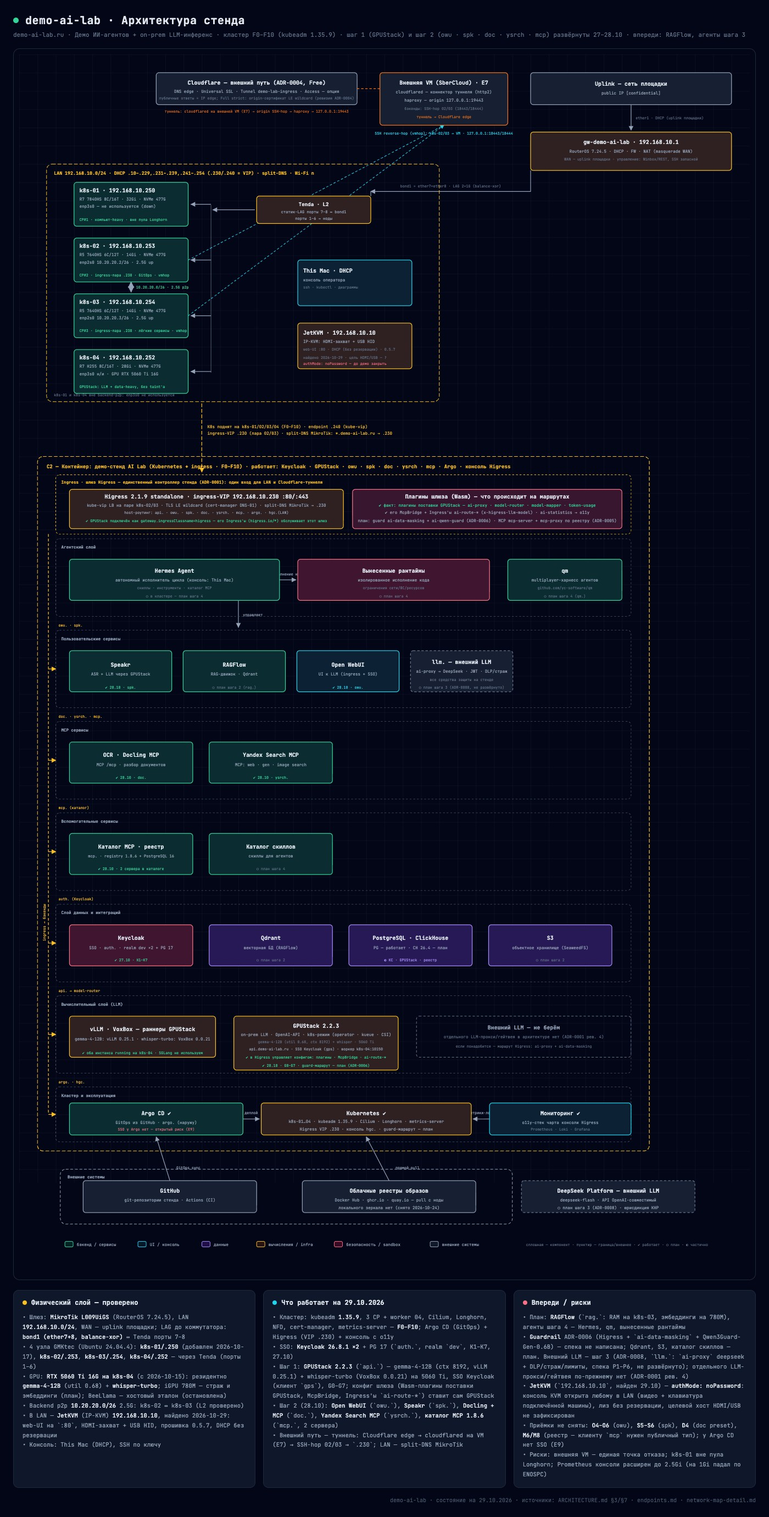
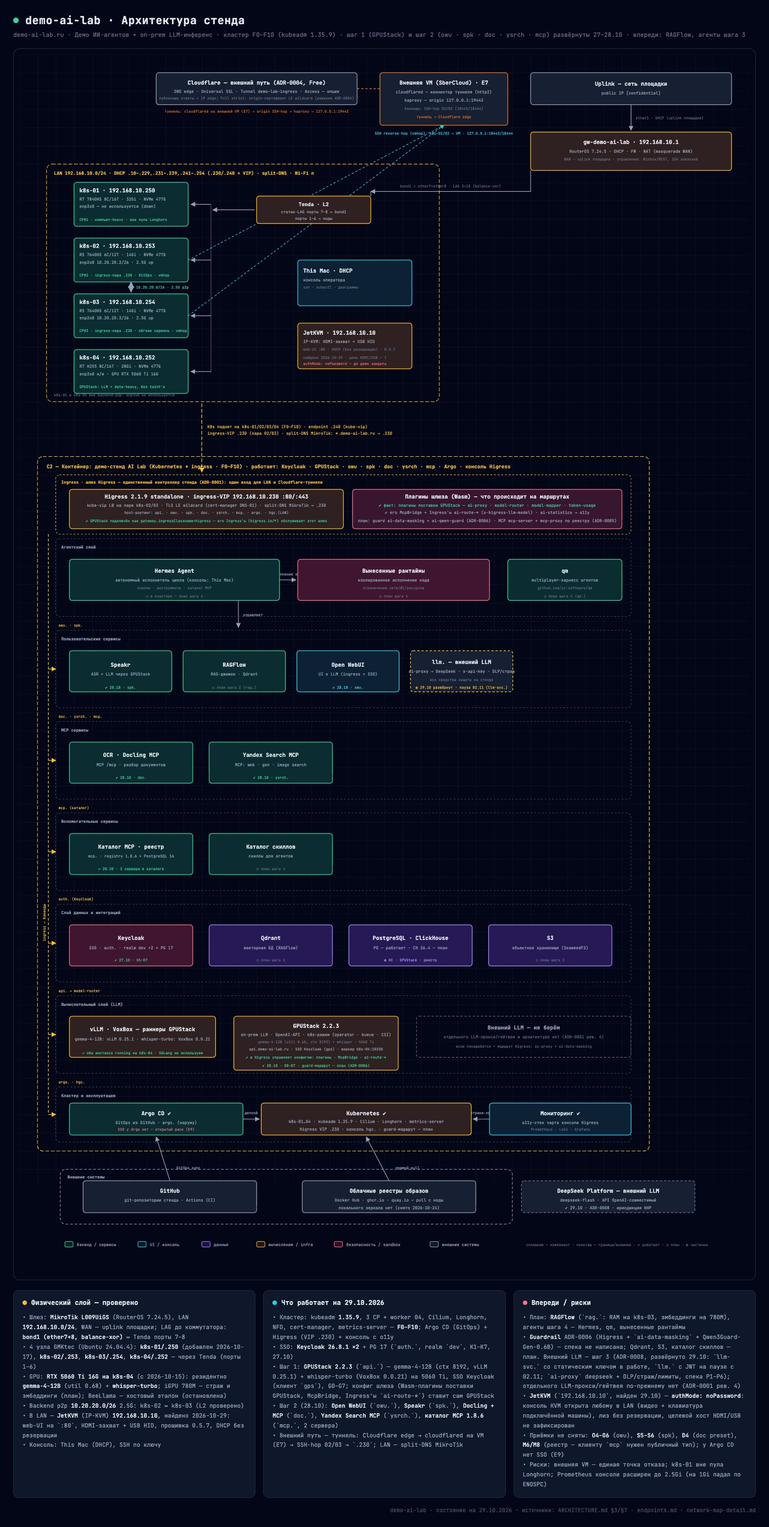
docs(llm): заморозка SSO-пути — в работе только llm-svc со статическим ключом
Решение владельца 2026-11-02: поднаправление «ключи от SSO» (llm., JWT Keycloak
client_credentials + jwt-auth/opa) приостановлено; в эксплуатации и демо —
llm-svc.demo-ai-lab.ru со статическим x-api-key. Маршрут llm. не снимается,
ADR-0008 остаётся Accepted — сверху ревизия, а не Superseded.

- adr-0008: ревизия 2026-11-02 (что на паузе, цена паузы: одно ведро квот на
  consumer, отзыв = перевыпуск ключа, inline JWKS сам не обновляется)
- кейс 02: llm. убран из показа — сценарий, поля ai_log, таблица кодов, блокеры
- зеркала: README, ARCHITECTURE §3/§4/§7, architecture/README, endpoints,
  llm-proxy-spec (шапка), cases/README, references/demo-plan; везде снято
  устаревшее «не развёрнуто» (маршрут развёрнут 2026-10-29)
- схемы: C2 и HTML — карточка llm. «развёрнут 29.10, пауза 02.11», C1 — подпись
  стрелки [HTTPS, x-api-key]; jpg перерендерены

Проверено 02.11: llm-svc. с ключом → 200, llm. без токена → 401,
llm. со статическим ключом → 401.

diff --git a/architecture/demo-ai-lab-architecture.html b/architecture/demo-ai-lab-architecture.html
@@ -120,7 +120,7 @@
 
   <!-- внешние системы нарисованы рядами, а не правой колонкой: верхний ряд — Cloudflare,
        внешняя VM (E7), uplink; нижний ряд — GitHub, облачные реестры, DeepSeek Platform
-       (план шага 3, ADR-0008). Отдельного LLM-гейтвея нет (ADR-0001 рев. 4) — внешний LLM
+       (шаг 3, ADR-0008: развёрнуто 29.10, в работе `llm-svc.`). Отдельного LLM-гейтвея нет (ADR-0001 рев. 4) — внешний LLM
        идёт маршрутом Higress `ai-proxy` (`llm.`), карточка которого — в полосе сервисов. -->
   <!-- VM egress: ssh reverse-hop nodes -> VM -->
   <line x1="370" y1="450" x2="930" y2="155" stroke="#22d3ee" stroke-width="1.2" stroke-dasharray="5,4" marker-end="url(#arrCyan)"/>
@@ -326,13 +326,13 @@
   <text x="720" y="1360" font-size="9" fill="#94a3b8" text-anchor="middle">UI к LLM (ingress + SSO)</text>
   <text x="720" y="1388" font-size="8" fill="#22d3ee" text-anchor="middle">✔ 28.10 · owu.</text>
 
-  <!-- ===== внешний LLM: маршрут llm. (план шага 3, ADR-0008) ===== -->
+  <!-- ===== внешний LLM: маршрут llm./llm-svc. (ADR-0008: развёрнут 29.10, пауза SSO-пути с 02.11) ===== -->
   <rect x="857" y="1305" width="224" height="90" rx="6" fill="#0f172a"/>
-  <rect x="857" y="1305" width="224" height="90" rx="6" fill="rgba(30,41,59,0.5)" stroke="#64748b" stroke-width="1.5" stroke-dasharray="5,4"/>
+  <rect x="857" y="1305" width="224" height="90" rx="6" fill="rgba(30,41,59,0.5)" stroke="#fbbf24" stroke-width="1.5" stroke-dasharray="5,4"/>
   <text x="969" y="1334" font-size="12" fill="#e2e8f0" text-anchor="middle" font-weight="700">llm. — внешний LLM</text>
-  <text x="969" y="1354" font-size="9" fill="#94a3b8" text-anchor="middle">ai-proxy → DeepSeek · JWT · DLP/страж</text>
+  <text x="969" y="1354" font-size="9" fill="#94a3b8" text-anchor="middle">ai-proxy → DeepSeek · x-api-key · DLP/страж</text>
   <text x="969" y="1372" font-size="8" fill="#64748b" text-anchor="middle">все средства защиты на стенде</text>
-  <text x="969" y="1388" font-size="8" fill="#64748b" text-anchor="middle">○ план шага 3 (ADR-0008, не развёрнуто)</text>
+  <text x="969" y="1388" font-size="8" fill="#fbbf24" text-anchor="middle">◐ 29.10 развёрнут · пауза 02.11 (llm-svc.)</text>
 
   <!-- ===== MCP сервисы ===== -->
   <rect x="110" y="1505" width="270" height="90" rx="6" fill="#0f172a"/>
@@ -425,7 +425,8 @@
   <text x="1185" y="2341" font-size="9" fill="#94a3b8" text-anchor="middle">o11y-стек чарта консоли Higress</text>
   <text x="1185" y="2356" font-size="8" fill="#64748b" text-anchor="middle">Prometheus · Loki · Grafana</text>
 
-  <!-- ===== внешние: провайдер LLM — план шага 3 (ADR-0008, маршрут llm.); отдельного
+  <!-- ===== внешние: провайдер LLM — шаг 3 (ADR-0008, маршрут llm-svc./llm., развёрнуто 29.10,
+       JWT-вход на паузе с 02.11); отдельного
        LLM-гейтвея по-прежнему нет (ADR-0001 рев. 4) ===== -->
 
   <!-- ===== внешние: нижний ряд ===== -->
@@ -445,7 +446,7 @@
   <rect x="1100" y="2465" width="380" height="70" rx="6" fill="rgba(30,41,59,0.5)" stroke="#64748b" stroke-width="1.5" stroke-dasharray="5,4"/>
   <text x="1290" y="2492" font-size="12" fill="#e2e8f0" text-anchor="middle" font-weight="700">DeepSeek Platform — внешний LLM</text>
   <text x="1290" y="2511" font-size="9" fill="#94a3b8" text-anchor="middle">deepseek-flash · API OpenAI-совместимый</text>
-  <text x="1290" y="2528" font-size="9" fill="#94a3b8" text-anchor="middle">○ план шага 3 (ADR-0008) · юрисдикция КНР</text>
+  <text x="1290" y="2528" font-size="9" fill="#94a3b8" text-anchor="middle">✔ 29.10 · ADR-0008 · юрисдикция КНР</text>
 
   <!-- ==================== LEGEND ==================== -->
   <rect x="100" y="2598" width="18" height="12" rx="3" fill="rgba(6,78,59,0.4)" stroke="#34d399" stroke-width="1.2"/>
@@ -490,7 +491,7 @@
     <div class="card-header"><div class="card-dot rose"></div><h3>Впереди / риски</h3></div>
     <ul>
       <li>• План: <b>RAGFlow</b> (`rag.`: RAM на k8s-03, эмбеддинги на 780M), агенты шага 4 — Hermes, qm, вынесенные рантаймы</li>
-      <li>• <b>Guardrail</b> ADR-0006 (Higress + `ai-data-masking` + Qwen3Guard-Gen-0.6B) — спека не написана; Qdrant, S3, каталог скиллов — план. Внешний LLM — шаг 3 (ADR-0008, `llm.`: `ai-proxy` deepseek + DLP/страж/лимиты, спека P1–P6, не развёрнуто); отдельного LLM-прокси/гейтвея по-прежнему нет (ADR-0001 рев. 4)</li>
+      <li>• <b>Guardrail</b> ADR-0006 (Higress + `ai-data-masking` + Qwen3Guard-Gen-0.6B) — спека не написана; Qdrant, S3, каталог скиллов — план. Внешний LLM — шаг 3 (ADR-0008, развёрнуто 29.10: `llm-svc.` со статическим ключом в работе, `llm.` с JWT на паузе с 02.11; `ai-proxy` deepseek + DLP/страж/лимиты, спека P1–P6); отдельного LLM-прокси/гейтвея по-прежнему нет (ADR-0001 рев. 4)</li>
       <li>• <b>JetKVM</b> (`192.168.10.10`, найден 29.10) — <b>authMode: noPassword</b>: консоль KVM открыта любому в LAN (видео + клавиатура подключённой машины), лиз без резервации, целевой хост HDMI/USB не зафиксирован</li>
       <li>• Приёмки не сняты: <b>O4–O6</b> (owu), <b>S5–S6</b> (spk), <b>D4</b> (doc preset), <b>M6/M8</b> (реестр — клиенту `mcp` нужен публичный тип); у Argo CD нет SSO (E9)</li>
       <li>• Риски: внешняя VM — единая точка отказа; k8s-01 вне пула Longhorn; Prometheus консоли расширен до 2.5Gi (на 1Gi падал по ENOSPC)</li>

diff --git a/cases/02-proxy-dlp-guard.md b/cases/02-proxy-dlp-guard.md
@@ -16,7 +16,7 @@
     -d '{"model":"Qwen3Guard-Gen-4B","max_tokens":16,"messages":[{"role":"user","content":"погода"}]}'
   ```
   `403` = ключу не выдан доступ к модели (UI: API Keys → `guard` → Allowed models), `404` = в конфиге плагина неверное имя модели (нужно с заглавными).
-- Внешний маршрут: `llm-svc.` (статический ключ, для сервисов и скриптов зала) и `llm.` (JWT Keycloak, для клиентов с `client_credentials`).
+- Внешний маршрут — **`llm-svc.`** (статический ключ, для сервисов и скриптов зала). Второй вход `llm.` (JWT Keycloak) с 2026-11-02 на паузе и в кейсе не участвует.
 
 ## Сценарий показа (тезисно)
 
@@ -24,9 +24,8 @@
 2. **Обычный запрос** через `llm-svc` → `200`, ответ провайдера (это уже проверено 01.11: 1.3 с, 99 токенов).
 3. **DLP:** промпт с телефоном + вопрос «сколько цифр в этом номере?» → модель отвечает **0**: она цифр не видит, наружу ушёл `<PHONE>`, а в ответе он восстановлен (`restore`). Лог этого не показывает — доказательство только поведенческое (см. раздел «Как доказать маскирование»).
 4. **Страж:** заведомо небезопасный промпт (джейлбрейк) → `403` с вердиктом модели; сразу после — нормальный промпт → `200`, чтобы показать, что ложных блокировок нет.
-5. **Квоты:** серия запросов выше `token_per_minute` → `429` на конкретном `x-consumer` (а не «всё легло»).
+5. **Квоты:** серия запросов выше `token_per_minute` → `429` на счётчике consumer'а (сейчас единственный consumer `llm-svc`, поэтому ведро общее на весь зал).
 6. **Предохранитель:** остановить стража в UI → следующий запрос получает `503 guard unavailable (fail-closed)`; включить обратно → `200`. Это самый наглядный слайд кейса: не «пропустили без проверки», а «не проверили — не пропустили».
-7. **Различение потребителей** (опционально): два демо-пользователя → разные `x-consumer`/`azp` в access-логе шлюза — видно, кто обращался, сколько токенов и какие блокировки; отдельного сервиса трейсинга нет.
 
 ## Критерий успеха
 
@@ -41,16 +40,16 @@ kubectl -n higress-system logs deploy/higress-gateway --tail=500 \
   | grep '"llm-svc.demo-ai-lab.ru"'
 ```
 
-Поля `ai_log` (факт 2026-11-01): `consumer` (`llm-svc`, у JWT-пути — `azp`), `model`, `input_token`,
+Поля `ai_log` (факт 2026-11-01): `consumer` (`llm-svc`), `model`, `input_token`,
 `output_token`, `total_token`, `input_token_details.cached_tokens`, `output_token_details.reasoning_tokens`,
 `llm_service_duration` (мс, только провайдер), `chat_round`, `response_type`, `chat_id`.
 Рядом — поля Envoy: `duration` (мс, весь запрос включая страж/DLP), `upstream_service_time`,
-`response_code`, `route_name` (`llm/llm-svc`), `upstream_cluster` (`outbound|443||deepseek.dns`).
+`response_code`, `route_name` (`llm-svc`), `upstream_cluster` (`outbound|443||deepseek.dns`).
 
 Сводка по всем подам шлюза — скрипт `scripts/llm_stats.py` (таблица по запросам + итоги):
 
 ```bash
-scripts/llm_stats.py                                   # последние 2000 строк, оба хоста
+scripts/llm_stats.py                                   # последние 2000 строк
 scripts/llm_stats.py --tail 20000 --since 30m --last 30
 scripts/llm_stats.py --host llm-svc.demo-ai-lab.ru --json /tmp/stats.json
 ```
@@ -63,7 +62,7 @@ scripts/llm_stats.py --host llm-svc.demo-ai-lab.ru --json /tmp/stats.json
 
 | Колонка | Что значит |
 |---|---|
-| `consumer` | кто звонил: `llm-svc` (статический ключ) или `azp` JWT-клиента |
+| `consumer` | кто звонил: `llm-svc` (статический ключ) |
 | `код` | HTTP-ответ шлюза (`200`, `403` страж, `429` квота, `503` fail-closed) |
 | `мс` | весь запрос от входа до ответа — включая DLP и стража |
 | `in` / `out` | токены промпта / ответа по данным провайдера |
@@ -71,7 +70,7 @@ scripts/llm_stats.py --host llm-svc.demo-ai-lab.ru --json /tmp/stats.json
 | `кэш` | попадание в кэш промпта провайдера (повторный одинаковый префикс) |
 | `провайдер_мс` | чистый провайдер (`llm_service_duration`); разница с `мс` — цена защиты |
 
-Факт прогона 2026-11-01: 38 запросов, из них `200×20`, `403×9` (страж), `401×6` (нет ключа/токена),
+Факт прогона 2026-11-01: 38 запросов, из них `200×20`, `403×9` (страж), `401×6` (нет ключа),
 `503×2` (страж был недоступен — fail-closed), `0×1` (клиент оборвал соединение); in 22 399 / out 3 605
 токенов, средняя длительность успешных 1 660 мс (p95 3 576 мс), **цена защиты ≈ 183 мс**.
 
@@ -84,7 +83,7 @@ scripts/llm_stats.py --host llm-svc.demo-ai-lab.ru --json /tmp/stats.json
 | **Страж заблокировал** | `403` + `via_wasm::higress-system.llm-qwen-guard`, `ai_log` пустой | до провайдера не дошло; в теле ответа `type: content_guard_blocked` и `reason: level=unsafe categories=…` |
 | **Страж недоступен** | `503` + тот же плагин | fail-closed: «не проверили — не пропустили» |
 | **Квота** | `429` + `via_wasm::higress-system.llm-token-ratelimit` | лимит токенов на `x-consumer` |
-| **Нет идентичности** | `401` + `llm-jwt-auth::jwt-auth.token_missing` или `llm-key-auth::key-auth.no_key` | не тот вход: JWT-хост ждёт токен, сервисный — `x-api-key` |
+| **Нет идентичности** | `401` + `llm-key-auth::key-auth.no_key` | не тот вход: сервисный хост ждёт `x-api-key` |
 | **Дошло до модели** | `200` + `via_upstream`, `ai_log` заполнен | страж и DLP пропустили |
 | **DLP замаскировал** | **ничего**: ни `ai_log`, ни заголовков, ни записи в логе | плагин только переписывает тело запроса — следа нет |
 | **DLP отказал** (только при `deny_words`) | `200` с `deny_code` + `via_wasm::…llm-data-masking` | сработал денлист; сейчас `deny_words: []`, поэтому не наблюдается |
@@ -142,17 +141,16 @@ curl -s 'http://127.0.0.1:9090/prometheus/api/v1/query?query=sum(rate(envoy_http
 |---|---|---|
 | Прокси → провайдер, страж блокирует/пропускает, fail-closed | **проверено 01–02.11**: `200` / `403` / `503` | — |
 | DLP-маскирование | **проверено поведенчески** («0 цифр»), в логах не видно | — |
-| **Путь SSO → `llm.`** (JWT Keycloak, `client_credentials`, `aud=llm`, роль `llm.invoke`, OPA-проверка) | **не проверен**: снят только негатив — `401` без токена. Успешный вызов с JWT и проверка `aud`/роли в OPA не прогонялись | получить токен клиентом `llm-<svc>` / `smoke-cli` → `/v1/models` должен дать `200`; затем токен без `aud=llm` → `403` от OPA |
-| **Трекинг пользователей** | **не реализован**: `consumer` в `ai_log` различает только ключ (`llm-svc`) или `azp` JWT; истории запросов, оценок и привязки к человеку нет — отдельного трейсинг-сервиса в архитектуре нет | вне сценария демо: показывается только access-лог шлюза (два демо-пользователя → две строки `azp`) |
+| **Трекинг пользователей** | **не реализован**: `consumer` в `ai_log` различает только ключ (`llm-svc`); истории запросов, оценок и привязки к человеку нет — отдельного трейсинг-сервиса в архитектуре нет | вне сценария демо: показывается только access-лог шлюза |
 | **Лимиты `ai-token-ratelimit` (429 на `x-consumer`)** | **не проверены**: конфиг верный (60 000 ток/мин, 600 000 ток/сутки), но счётчики в Valkey пустые (`dbsize = 0`), `429` ни разу не воспроизводился | серия запросов выше лимита → `429`; если счётчики не появляются — искать, куда плагин пишет (адрес/таймаут Redis) |
 
-Обе оставшиеся части — про **идентичность и учёт**: пока в кейсе показывается «один сервисный ключ»,
-а не «пользователь пришёл по SSO, ему посчитали токены и записали строку в access-лог шлюза».
+Оставшаяся часть — про **учёт**: лимиты (`429`) и строка consumer в access-логе. Идентичность «кто
+именно пришёл» в кейсе не показывается: под одним ключом `llm-svc` все запросы неразличимы.
 
 ## Подготовка до сцены (блокеры)
 
-- **Добрать непроверенное** (см. таблицу выше): успешный вызов `llm.` с JWT Keycloak и проверка `aud`/роли в OPA, различение потребителей в логе шлюза, воспроизведение `429` на лимите. Транспорт, страж, fail-closed и маскирование уже сняты 01–02.11.
-- Демо-учётки: **пул** `demo01…`, не одна на всех — квоты считаются по пользователю; одна общая учётка ломает и шаг 5, и строки `azp` в логе.
+- **Добрать непроверенное** (см. таблицу выше): воспроизведение `429` на лимите. Транспорт, страж, fail-closed и маскирование уже сняты 01–02.11.
+- Демо-учётки: **пул** `demo01…`, не одна на всех; пока работа идёт под статическим ключом `llm-svc`, все учётки падают в одно ведро consumer'а.
 - Заготовки промптов (обычный / с ПДн / джейлбрейк / серия для квоты) — в сценарии показа, чтобы не импровизировать на сцене.
 - Пропускная квота на зал: `ai-token-ratelimit` настроен на 60 000 ток/мин и 600 000 ток/сутки на `x-consumer` — при 15–20 гостях суточная квота выжигается быстро, поднять заранее или ограничить зал одним «демо-пулом».
 

diff --git a/architecture/ARCHITECTURE.md b/architecture/ARCHITECTURE.md
@@ -80,9 +80,11 @@ _¹ После переустановки 02/03 резервации на вре
 | Guardrail | **Higress + `ai-data-masking` + Qwen3Guard-Gen-0.6B** (ADR-0006, 2026-10-24): маскирование ПДн и словарный блок на шлюзе, классификация `Safe/Controversial/Unsafe` моделью-стражем 0.6B (Apache-2.0, 1.41 GiB, категории `PII`/`Jailbreak`) через кастомный Wasm-плагин `ai-qwen-guard`; отдельного guard-сервиса нет | модерация входа: ПДн, инъекции/джилбрейк; рубильник — аннотация Ingress |
 | Кластер и эксплуатация | Argo CD (GitOps), k8s ingress, Мониторинг (метрики/логи/трейсы) | деплой и наблюдаемость |
 
-**LLM-трафик** идёт только через Higress: on-prem — к GPUStack, наружу — маршрутом `llm.`
+**LLM-трафик** идёт только через Higress: on-prem — к GPUStack, наружу — маршрутами `llm-svc.`
+(статический ключ; основной в работе) и `llm.` (JWT; с 2026-11-02 на паузе)
 (`ai-proxy` + `ai-data-masking` + страж fail-closed + лимиты того же шлюза, **ADR-0008**).
-**Эндпоинты разведены по требованию ИБ** (`api.` — локальные модели, `llm.` — проксирование наружу):
+**Эндпоинты разведены по требованию ИБ** (`api.` — локальные модели, `llm.`/`llm-svc.` — проксирование
+наружу):
 разные политики (fail-open против fail-closed), разные счётчики и отдельное отключение. Второго
 LLM-гейтвея (Bifrost,
 agentgateway, LiteLLM) и отдельного «лёгкого LLM-прокси» в архитектуре нет — разбор и
@@ -108,9 +110,10 @@ ADR — `adr/adr-0005-mcp-registry-and-higress.md`.
 3. **RAG**: документ → OCR·Docling → RAGFlow → Qdrant;
    запрос к LLM → retrieval → ответ (Open WebUI / агент).
 4. **Транскрибация**: аудио → Speakr → текст → S3.
-5. **Внешний LLM — сценарий демо (ADR-0008, развёртывание не начато)**: сервис → `llm.`
-   → `ai-proxy` (`provider.type: deepseek`, ключ в Secret) + `ai-data-masking` + `ai-qwen-guard`
-   (**fail-closed** на внешнем маршруте) + `ai-token-ratelimit` → `api.deepseek.com`.
+5. **Внешний LLM — сценарий демо (ADR-0008, развёрнуто 2026-10-29)**: сервис → `llm-svc.` (статический
+   `x-api-key`) → `ai-proxy` (`provider.type: deepseek`, ключ в Secret) + `ai-data-masking` + `ai-qwen-guard`
+   (**fail-closed** на внешнем маршруте) + `ai-token-ratelimit` → `api.deepseek.com`. Второй вход —
+   `llm.` (JWT Keycloak `client_credentials`, `jwt-auth` + `opa`): **с 2026-11-02 на паузе**, маршрут не снят.
    Наружу уходит только обезличенное; egress подов проверен 2026-10-29 (401 за 0.44 s).
    Средства защиты (DLP, страж, лимиты, аудит) — только на стенде, облачных нет (ADR-0008).
    Отдельного LLM-прокси/гейтвея нет — ADR-0001 рев. 4.
@@ -241,7 +244,7 @@ root-LV 100G, ~374G свободно в VG. k8s-01 — лидер по RAM (32Gi
 | 17 | Speakr (`spk.demo-ai-lab.ru`, шаг 2) | **развёрнут 2026-10-28 через Argo CD** (`gitops/apps/spk`): PVC 20Gi Longhorn, Deployment `speakr` ×1 (`strategy: Recreate`, TCP-пробы 8899), Service, `Certificate spk-demo-tls`. ASR и тексты — GPUStack (`openai_whisper` → `/v1/audio/transcriptions`, `gemma-4-12B`), ключ `demo-step2` доступен из пода (200). LAN: `/` → 302 на `/login`, `/login` 200; вход — SSO **и** локальная форма по `admin@demo-ai-lab.ru` (`SSO_DISABLE_PASSWORD_LOGIN=false`, решение владельца 28.10.2026: пароль — запасной вход на демо; при `true` форма отключена целиком). **28.10.2026:** вход «не проходил» из-за rate-limit `10/мин` на `/auth/sso/login`, который из-за `TRUSTED_PROXY_HOPS=2` считался на адрес пода Higress (общее ведро на всех) — hops → **1**, лимит стал по клиенту (`ratelimit ... (192.168.10.200)`); полный SSO-цикл `user-test`/`admin-test` → 200 на дашборде. Секреты — `Secret spk-secrets`/`spk-oidc` вне git (`spk-admin.local.md`, gitignored). **Транскрибация (28.10.2026):** `.aac` из диктофона валился не по звуку — GPUStack не принимает `audio/aac` и отвечает `400` **в теле при HTTP 200**, поэтому добавлен `AUDIO_UNSUPPORTED_CODECS=aac` (конвертация в mp3); вторым блокером были `TITLE/SUMMARY_MAX_TOKENS` 5000/3000 больше ctx модели — выставлены 1000/2500/1500, ctx GPUStack поднят 4096 → 8192. Запись 1 (24 мин): `COMPLETED`, транскрипт 14 835 симв., саммари 4 463 симв., 55 с. Осталось из S5–S6: загрузка 100+ МБ через edge и лимиты Higress |
 | 19 | Yandex Search MCP (`ysrch.demo-ai-lab.ru`, шаг 2) | **развёрнут и опубликован 2026-10-28** (`gitops/apps/ysrch`, ns `ysrch`): `msklv/yandex-search-mcp-server` **v1.3.1** (индекс `sha256:6e0127…`, amd64 `sha256:2d3e08…`, 63,3 MiB, `python:3.10-slim`) — StreamableHTTP `/mcp`, порт 8766, TCP-пробы (`GET /mcp` = 406 by design), `PriorityClass demo-stand-critical`, soft-affinity на пару 02/03, `Certificate ysrch-demo-tls` Ready + Ingress Higress. Ключ Yandex Search API — Secret `yandex-search` (`scripts/yandex_search_secrets.sh`, файл `yandex-search.local.md` вне git). **Грабля:** SDK `mcp` 1.29.1 валидирует Host → через Higress `421 Invalid Host header`, поэтому запуск идёт ConfigMap-обёрткой с `transport_security = None` (правка в форке — открытый пункт Y-O1 спеки). Факт: `initialize`/`tools/list` (`web_search`, `gen_search`, `image_search`, `web_search_async`, `get_operation`, `image_search_by_image`), `web_search` → 694 симв., `gen_search` → 3,4 КБ с `FOLDER_ID`; из LAN и через edge — 200. В каталоге MCP — `ru.demo-ai-lab/yandex-search@1.0.0`. Спека — `architecture/specs/ysearch-spec.md` |
 | 18 | Docling Serve + MCP (`doc.demo-ai-lab.ru`, шаг 2) | **развёрнут 2026-10-28 через Argo CD** (`gitops/apps/doc`): под `docling` 2/2 (`docling-serve` 5001 + `docling-mcp` 8000 в `CONVERSION_MODE=remote` через loopback), PVC 10Gi Longhorn `/modelcache` = 851 MiB (layout, tableformer, rapidocr `eslav`+`ch`, easyocr, tessdata `rus`/`eng`), предзагрузка — **Argo-hook** `Sync` wave -1 (обычный Job не годится: `spec.template` иммутабелен после того, как контроллер дописал `controller-uid`, ArgoCD падал на патче), Ingress `/mcp`→8000 и `/`→5001, `Certificate doc-demo-tls`. Факт: `/health` `/ready` `/livez` → 200, MCP `initialize` → 200; русский скан → кириллица в `md_content` за ~4 с с `ocr_preset=ru-en` (tesserocr `rus+eng`) и `rapid-ru` (RapidOCR `eslav`); **без `ocr_preset` сервер идёт `auto`** (RapidOCR `ch`) — кириллица распознаётся плохо, `default_ocr_preset=ru-en` работает только для UI/явного пресета, MCP-адаптер пресет не передаёт (открытый пункт D4) |
-| 21 | Проксирование внешнего LLM (`llm.` и `llm-svc.`, шаг 3) | **развёрнуто 2026-10-29, два входа**: `llm.` — JWT Keycloak realm `dev` (`client_credentials`) → `jwt-auth` + `opa` (`aud`/роль); `llm-svc.` — статический `x-api-key` (consumer `llm-svc`, переименован из `llm-test.` 2026-11-01) для сервисов без Keycloak-клиента; на обоих — `ai-data-masking` → `ai-qwen-guard` (fail-closed) → `ai-proxy` (`provider.type: deepseek`, ключ в Secret) → `ai-token-ratelimit`. Факт 2026-11-01: `llm-svc` `/v1/models` → `200` с ключом и `401` без, `llm.` без токена → `401`. Спека `architecture/specs/llm-proxy-spec.md` (v1.1), решение ADR-0008; **не снято только P4-стрим** (SSE ≥180 с, критерии в §4 спеки). Побочное 2026-11-01: reload конфига шлюза добил Higress-gateway на лимите 2048Mi (OOM) — лимит поднят до 3072Mi в `ansible/values-f8.yaml`, там же `rollingMaxSurge: 0` (дефолтные 100% с anti-affinity давали мёртвый rollout) |
+| 21 | Проксирование внешнего LLM (`llm.` и `llm-svc.`, шаг 3) | **развёрнуто 2026-10-29, два входа**: `llm.` — JWT Keycloak realm `dev` (`client_credentials`) → `jwt-auth` + `opa` (`aud`/роль); `llm-svc.` — статический `x-api-key` (consumer `llm-svc`, переименован из `llm-test.` 2026-11-01) для сервисов без Keycloak-клиента; на обоих — `ai-data-masking` → `ai-qwen-guard` (fail-closed) → `ai-proxy` (`provider.type: deepseek`, ключ в Secret) → `ai-token-ratelimit`. Факт 2026-11-01: `llm-svc` `/v1/models` → `200` с ключом и `401` без, `llm.` без токена → `401`. Спека `architecture/specs/llm-proxy-spec.md` (v1.1), решение ADR-0008; **не снято только P4-стрим** (SSE ≥180 с, критерии в §4 спеки). **2026-11-02: развитие JWT-пути `llm.` приостановлено (ревизия ADR-0008) — в работе и в демо только `llm-svc.` со статическим ключом; маршрут `llm.` не снят, `/v1/models` без токена по-прежнему `401`**. Побочное 2026-11-01: reload конфига шлюза добил Higress-gateway на лимите 2048Mi (OOM) — лимит поднят до 3072Mi в `ansible/values-f8.yaml`, там же `rollingMaxSurge: 0` (дефолтные 100% с anti-affinity давали мёртвый rollout) |
 
 ## 8. Файлы
 

diff --git a/adr/README.md b/adr/README.md
@@ -40,4 +40,4 @@
 | [0005](adr-0005-mcp-registry-and-higress.md) | **Accepted** | 2026-10-24 | MCP: **реестр `modelcontextprotocol/registry` ставим** (каталог MCP-серверов, `mcp.demo-ai-lab.ru`, ns `mcp-registry`), вызовы и хостинг инструментов — **Higress** (`mcp-server`: REST→MCP, `mcp-proxy` по `remotes`, `allowTools`). Совместно: реестр-каталог + вызовы на шлюзе (схема 1) и реестр за шлюзом с OIDC/лимитами (схема 2); синхронизация реестр → Nacos 3.x (схема 3) отложена. Нативного чтения реестра Higress не умеет — MCP поддержан только у service source `nacos3`. Развёртывание — `architecture/specs/mcp-registry-spec.md` |
 | [0006](adr-0006-guardrail-higress-qwen3guard.md) | **Accepted** | 2026-10-24 | Guardrail = **Higress 2.1.9 + `ai-data-masking` + Qwen3Guard-Gen-0.6B** (Apache-2.0, 1.41 GiB) через кастомный Wasm-плагин `ai-qwen-guard`; рубильник — аннотация Ingress. Облачные модераторы отклонены — внешний сервис в горячем пути, вне белого списка egress; класс `guardrails-ai`/LLM Guard, NeMo Guardrails, FMS Guardrails Orchestrator, Presidio и модели Llama-Guard/ShieldGemma/Granite Guardian/WildGuard — рассмотрены, в демо не берутся |
 | [0007](adr-0007-model-roster-and-gpu-budget.md) | **Accepted** | 2026-10-24 | Модели и бюджет видеопамяти `k8s-04`: **RTX 5060 Ti (15.93 GiB VRAM)** — резидентно `gemma-4-12B-it-qat-w4a16-ct` (util 0.75) + ASR `whisper-large-v3-turbo` (util 0.15) = 13.91/15.93; **Radeon 780M (GTT 8 из 32 GB DDR5, gfx1103)** — vLLM-only: страж `Qwen3Guard-Gen-0.6B` + `bge-m3` + `bge-reranker-v2-m3` = 5.23/8 GiB (wheel `v0.25.1-rocm10.0.0-gfx1103-gfx1100-verified`), llama.cpp на узле не остаётся; OCR — CPU (Docling). Диск 04: root-LV расширен 2026-10-27 до 210 GB (свободно 109 GB) — после полного прогрева занято 39.19 GB, ограничение R-G5 снято |
-| [0008](adr-0008-external-llm-deepseek-proxy.md) | **Accepted** | 2026-10-29 | Сценарий демо — **безопасное проксирование LLM к внешнему провайдеру**: единственная дверь наружу — маршрут `llm.demo-ai-lab.ru` в Higress (собственный `WasmPlugin ai-proxy`, `provider.type: deepseek`, ключ из Secret) + маскирование `ai-data-masking` + страж `ai-qwen-guard` в режиме **fail-closed** + `ai-token-ratelimit`/квоты + `ai-statistics`/access-лог шлюза; egress подов проверен (`api.deepseek.com` → 401, 0.44 s), внешняя VM-egress не нужна. Гибрид: чувствительное — on-prem (ADR-0007), объём — `deepseek-flash` / `deepseek-v4-pro`; полный отказ от внешних моделей отклонён владельцем как экономически не оправданный. **Все средства защиты — внутри стенда** (DLP, страж, лимиты, аутентификация, аудит), облачных нет. Эндпоинты разведены по требованию ИБ (`api.` — on-prem, `llm.` — проксирование наружу). Вход — JWT Keycloak realm `dev` (`client_credentials`): на шлюзе `jwt-auth` (подпись, `iss`, `exp` по публичному JWKS) + `opa` (`aud=llm`/роль), Higress в SSO не регистрируется. Развёртывание не начато |
+| [0008](adr-0008-external-llm-deepseek-proxy.md) | **Accepted** | 2026-10-29 | Сценарий демо — **безопасное проксирование LLM к внешнему провайдеру**: единственная дверь наружу — маршрут `llm.demo-ai-lab.ru` в Higress (собственный `WasmPlugin ai-proxy`, `provider.type: deepseek`, ключ из Secret) + маскирование `ai-data-masking` + страж `ai-qwen-guard` в режиме **fail-closed** + `ai-token-ratelimit`/квоты + `ai-statistics`/access-лог шлюза; egress подов проверен (`api.deepseek.com` → 401, 0.44 s), внешняя VM-egress не нужна. Гибрид: чувствительное — on-prem (ADR-0007), объём — `deepseek-flash` / `deepseek-v4-pro`; полный отказ от внешних моделей отклонён владельцем как экономически не оправданный. **Все средства защиты — внутри стенда** (DLP, страж, лимиты, аутентификация, аудит), облачных нет. Эндпоинты разведены по требованию ИБ (`api.` — on-prem, `llm.` — проксирование наружу). Вход — JWT Keycloak realm `dev` (`client_credentials`): на шлюзе `jwt-auth` (подпись, `iss`, `exp` по публичному JWKS) + `opa` (`aud=llm`/роль), Higress в SSO не регистрируется. Развёрнуто 2026-10-29: два входа — `llm.` (JWT) и `llm-svc.` (статический ключ, с 2026-11-01). **Рев. 2026-11-02: поднаправление «ключи от SSO» (`llm.`) приостановлено — в эксплуатации и демо только `llm-svc.` со статическим `x-api-key`; маршрут `llm.` не снят, решение не отменено** |

diff --git a/architecture/endpoints.md b/architecture/endpoints.md
@@ -34,7 +34,7 @@
 | `echo` | [`echo.demo-ai-lab.ru`](https://echo.demo-ai-lab.ru) | smoke-контейнер (проверка LAN- и внешнего пути) | без авторизации | работает (постоянный, решение 2026-10-24) |
 | `auth` | [`auth.demo-ai-lab.ru`](https://auth.demo-ai-lab.ru) | Keycloak, realm `dev` | **публично целиком, включая `/admin`** — план Б, без Access (`architecture/specs/keycloak-spec.md` §4.5) | **установлен 2026-10-27** (K1–K7) |
 | `api` | [`api.demo-ai-lab.ru`](https://api.demo-ai-lab.ru) | GPUStack: UI + OpenAI-совместимый API | UI — SSO Keycloak (клиент `gps`), API-путь — ключ GPUStack (браузерный SSO для `/v1/*` не применяется) | **установлен 2026-10-28**: G0–G7 закрыты (чат `gemma-4-12B` + ASR `whisper-turbo` на 5060 Ti, SSO включён); G8 — приёмка/репетиция |
-| `llm` | [`llm.demo-ai-lab.ru`](https://llm.demo-ai-lab.ru) | **внешний LLM** — DeepSeek Platform за Higress: `ai-proxy` (`provider.type: deepseek`), маскирование `ai-data-masking`, страж `ai-qwen-guard` (fail-closed), лимиты `ai-token-ratelimit`; ключ провайдера — в Secret, наружу не выдаётся. **Отдельный эндпоинт по требованию ИБ** — политики не смешиваются с `api.` | JWT Keycloak realm `dev` (`client_credentials`, TTL 5 мин); на шлюзе `jwt-auth` + `opa` (`aud`/роль) | **работает с 2026-10-29**: Ingress + плагины; без токена → `401`. Шаг 3 демо (ADR-0008) |
+| `llm` | [`llm.demo-ai-lab.ru`](https://llm.demo-ai-lab.ru) | **внешний LLM** — DeepSeek Platform за Higress: `ai-proxy` (`provider.type: deepseek`), маскирование `ai-data-masking`, страж `ai-qwen-guard` (fail-closed), лимиты `ai-token-ratelimit`; ключ провайдера — в Secret, наружу не выдаётся. **Отдельный эндпоинт по требованию ИБ** — политики не смешиваются с `api.` | JWT Keycloak realm `dev` (`client_credentials`, TTL 5 мин); на шлюзе `jwt-auth` + `opa` (`aud`/роль) | **работает с 2026-10-29**: Ingress + плагины; без токена → `401`. Шаг 3 демо (ADR-0008). **Развитие приостановлено 2026-11-02 (ревизия ADR-0008): в демо используется `llm-svc.` со статическим ключом, маршрут `llm.` не снят** |
 | `llm-svc` | [`llm-svc.demo-ai-lab.ru`](https://llm-svc.demo-ai-lab.ru) | **тот же внешний LLM, вход для сервисов**: `ai-proxy` (`provider.type: deepseek`) + те же `ai-data-masking`, `ai-qwen-guard` (fail-closed), `ai-token-ratelimit`; ключ провайдера — в Secret, наружу не выдаётся | статический `x-api-key` (Secret `llm-apikey`, значение вне git); consumer `llm-svc`. Нужен сервисам без Keycloak-клиента (Speakr, RAGFlow, OWU), которые не умеют `client_credentials` | **работает с 2026-11-01** (переименован из `llm-test.`): `/v1/models` → `200` с ключом, `401` без |
 | `owu` | [`owu.demo-ai-lab.ru`](https://owu.demo-ai-lab.ru) | Open WebUI (чат к моделям) | SSO | **установлен 2026-10-28** (Argo, ns `owu`, чарт 17.0.0/0.12.0): O1 — ключ модели `demo-step2` выдан; O2/O3 закрыты живьём (STS 1/1, LAN 200, OIDC-провайдер зарегистрирован); O4–O6 (вход, edge, диалог) не сняты |
 | `rag` | [`rag.demo-ai-lab.ru`](https://rag.demo-ai-lab.ru) | RAGFlow | SSO | план: шаг 2; блокеры — RAM на k8s-03 и эмбеддинги/реранк на 780M |

diff --git a/architecture/README.md b/architecture/README.md
@@ -29,7 +29,8 @@ python3 scripts/render_diagrams.py --changed  # только источники 
 ![C1: контекст стенда](architecture-c1.jpg)
 
 Стенд одним блоком: акторы (зритель, оператор) и внешние системы (Cloudflare, GitHub,
-реестры образов, Yandex Search API, **DeepSeek Platform** — план шага 3, ADR-0008).
+реестры образов, Yandex Search API, **DeepSeek Platform** — шаг 3, ADR-0008: развёрнуто 2026-10-29,
+в работе `llm-svc.`).
 Исходник — `architecture/architecture-c1.excalidraw`.
 
 ### C2 — целевой контейнер
@@ -37,8 +38,9 @@ python3 scripts/render_diagrams.py --changed  # только источники 
 ![C2: целевой контейнер стенда](architecture-c2.jpg)
 
 Слои внутри стенда (физический узел, кластер, данные и интеграции, сервисы шагов 1–4);
-в полосе «Пользовательские сервисы» — карточка `llm.` (проксирование наружу, план ADR-0008,
-внешний провайдер на схеме не рисуется) — исходник слоёв для `architecture/ARCHITECTURE.md`.
+в полосе «Пользовательские сервисы» — карточка `llm.` (проксирование наружу, ADR-0008: развёрнуто
+2026-10-29, с 02.11 пауза, в работе `llm-svc.`; внешний провайдер на схеме не рисуется) — исходник слоёв
+для `architecture/ARCHITECTURE.md`.
 Исходник — `architecture/architecture-c2.excalidraw`.
 
 ### Полная диаграмма — физический + логический слой
@@ -62,7 +64,7 @@ Cloudflare Tunnel, сервисы по шагам демо. Открываетс
 | `architecture/specs/doc-spec.md` | Docling Serve + **MCP** (`doc.`, `/mcp`): образ `-cpu`, OCR на CPU с русским, кэш моделей Job-хуком | D1–D6 |
 | `architecture/specs/ysearch-spec.md` | Yandex Search MCP (`ysrch.`): форк v1.3.1, StreamableHTTP `/mcp`, TCP-пробы | Y1–Y5 |
 | `architecture/specs/mcp-registry-spec.md` | каталог MCP-серверов (`mcp.`): Registry 1.8.6 + PostgreSQL 16, витрина на `/`, API `/v0` | M1–M8 |
-| `architecture/specs/llm-proxy-spec.md` | проксирование LLM наружу (`llm.`, ADR-0008): JWT Keycloak `client_credentials`, `jwt-auth` + `opa` по `aud`/роли, `ai-proxy` (deepseek), DLP/страж fail-closed, лимиты; **не развёрнуто** | P1–P6 |
+| `architecture/specs/llm-proxy-spec.md` | проксирование LLM наружу (`llm.`, ADR-0008): JWT Keycloak `client_credentials`, `jwt-auth` + `opa` по `aud`/роли, `ai-proxy` (deepseek), DLP/страж fail-closed, лимиты; **развёрнуто 2026-10-29**, с 2026-11-02 в работе только `llm-svc.` (SSO-путь на паузе) | P1–P6 |
 
 Фазы буквами не переиспользуются между спеками; правила оформления — `references/service-spec-authoring.md`.
 Статус каждой спеки (установлено / не установлено, что закрыто) — `architecture/ARCHITECTURE.md` §7.

diff --git a/references/demo-plan.md b/references/demo-plan.md
@@ -18,17 +18,18 @@
    проверку — каталог **не проксирует вызовы**, это слой метаданных. Каталог уже наполнен: первым
    опубликован `ru.demo-ai-lab/docling@1.0.0` (`gitops/mcp-servers/docling/server.json`); перед показом
    сервер переопубликовать с новой версией — витрина по умолчанию показывает обновлённые за час.
-3. **Проксирование внешней модели** (ADR-0008): тот же OpenAI-контракт, но наружу — `llm.` →
-   `jwt-auth` (JWT Keycloak) → `opa` → `ai-data-masking` → `ai-qwen-guard` (fail-closed) →
+3. **Проксирование внешней модели** (ADR-0008): тот же OpenAI-контракт, но наружу — `llm-svc.`
+   (статический `x-api-key`) → `ai-data-masking` → `ai-qwen-guard` (fail-closed) →
    `ai-proxy` (`deepseek-flash`) → `ai-token-ratelimit`; все средства защиты на стенде, наружу —
-   только обезличенное. Спека — `architecture/specs/llm-proxy-spec.md` (P1–P6), **не развёрнуто**.
+   только обезличенное. Спека — `architecture/specs/llm-proxy-spec.md` (P1–P6), **развёрнуто 29.10**;
+   JWT-вход `llm.` с 02.11 на паузе и в сценарии не используется.
 4. **Агентский режим**: qm + Hermes-рантаймы; каталог — источник `remotes` (`mcp-server` Higress — вызовы);
    LLM — qwen3 через GPUStack (tool-calling).
 
-## Шаг 3 — безопасное проксирование LLM (ADR-0008, план)
+## Шаг 3 — безопасное проксирование LLM (ADR-0008, развёрнуто 2026-10-29; JWT-вход на паузе)
 
 Отдельный сюжет для разговора «локальные модели — не религия»: тот же OpenAI-контракт, что у GPUStack,
-но вторая половина гибрида — внешняя `deepseek-flash` за маршрутом `llm.`
+но вторая половина гибрида — внешняя `deepseek-flash` за маршрутом `llm-svc.` (статический ключ):
 (`ai-proxy` `provider.type: deepseek` → `ai-data-masking` → `ai-qwen-guard` **fail-closed** →
 `ai-token-ratelimit` → `api.deepseek.com`). На сцене: один и тот же запрос уходит в on-prem `gemma-4-12B`
 и наружу; в промпте — телефон/e-mail, на выходе шлюза в логе видно, что наружу ушёл плейсхолдер.

diff --git a/cases/README.md b/cases/README.md
@@ -64,7 +64,7 @@
 | # | Файл | Готовность | Главный блокер |
 |---|---|---|---|
 | 01 | `01-27b-one-card.md` | конфиг измерен на bare-metal, в GPUStack не заведён | прогон `SPEC-gpustack-custom-backend` B0–B7 |
-| 02 | `02-proxy-dlp-guard.md` | транспорт, страж и fail-closed работают (01–02.11); DLP проверен поведенчески | **не проверены: путь SSO→`llm.` (JWT+OPA), трекинг пользователей (только access-лог шлюза), лимиты (счётчики Valkey пусты)** |
+| 02 | `02-proxy-dlp-guard.md` | транспорт, страж и fail-closed работают (01–02.11); DLP проверен поведенчески; всё через `llm-svc.` (JWT-вход на паузе) | **не проверены: трекинг пользователей (только access-лог шлюза), лимиты (счётчики Valkey пусты)** |
 | 03 | `03-asr-speakr.md` | транскрибация проверена 28.10 (24 мин, 55 с) | саммари через `llm-svc` = правка env Speakr |
 | 04 | `04-ocr-gpu.md` | Docling на CPU работает (кириллица с пресетом) | модели `GLM-OCR` нет ни в каталоге, ни в спеке |
 | 05 | `05-rag-embeddings-local.md` | ничего не развёрнуто | RAGFlow + `bge-m3`/реранк на 780M |

diff --git a/architecture/specs/llm-proxy-spec.md b/architecture/specs/llm-proxy-spec.md
@@ -4,6 +4,9 @@
 > и `llm-svc.` (статический ключ для сервисов). Приёмка по §4: `llm.` без токена → `401`,
 > `llm-svc.` с ключом → `200` (`/v1/models` отдаёт `deepseek-flash`, `deepseek-v4-pro`), без ключа → `401`;
 > **P4-стрим (SSE ≥180 с) не снят**. Сценарий **ADR-0008**, **шаг 3 демо**. Решение и границы — в ADR-0008, здесь механика.
+> **С 2026-11-02 (ревизия ADR-0008) в работе только `llm-svc.`** со статическим ключом: поднаправление
+> «ключи от SSO» (`llm.`, JWT Keycloak) приостановлено, поэтому фазы P1–P6 ниже описывают оба хоста,
+> но исполняются/принимаются по сервисному пути; `llm.` не снимается.
 > **Цель:** маршрут `llm.` со своей авторизацией, DLP, стражем, лимитами и аудитом; все средства
 > защиты — на стенде (см. ADR-0008, принципы 1–3). Буква фаз — **P** (F/E/K/M/G/O/S/D/Y/L заняты).
 
